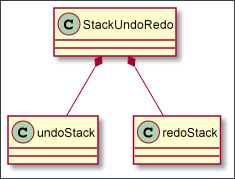
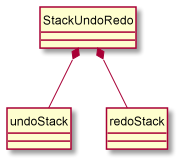
Remove C in diagram

Changed region(s): [[0.0, 0.0, 1.0, 1.0]]

diff --git a/docs/team/junlee1991.md b/docs/team/junlee1991.md
@@ -1,22 +1,21 @@
 ---
 layout: page
-title: Julio Harjo's Project Portfolio Page
+title: Julio's Project Portfolio Page
 ---
 
-# Skeleton of the Project Portfolio Page for Julio Harjo
+### Project: ModuleMateFinder
 
-### Project: AddressBook Level 3
-
-AddressBook - Level 3 is a desktop address book application used for teaching Software Engineering principles. The user interacts with it using a CLI, and it has a GUI created with JavaFX. It is written in Java, and has about 10 kLoC.
+ModuleMateFinder is a desktop address-book-like application used to keep track of your friends' contacts, as well as 
+the modules they are taking. The user interacts with it using a CLI, and it has a GUI created with JavaFX. It is 
+written in Java.
 
 Given below are my contributions to the project.
 
-* **New Feature**: Added the ability to undo/redo previous commands.
-  * What it does: allows the user to undo all previous commands one at a time. Preceding undo commands can be reversed by using the redo command.
-  * Justification: This feature improves the product significantly because a user can make mistakes in commands and the app should provide a convenient way to rectify them.
-  * Highlights: This enhancement affects existing commands and commands to be added in future. It required an in-depth analysis of design alternatives. The implementation too was challenging as it required changes to existing commands.
-  * Credits: *{mention here if you reused any code/ideas from elsewhere or if a third-party library is heavily used in the feature so that a reader can make a more accurate judgement of how much effort went into the feature}*
-
+* **New Feature**: Added the ability to add comments to a person.
+  * What it does: Allows the user to add a comment to a specified `Person` in ModuleMateFinder.
+  * Justification: Allows user to give a reason why they blacklisted or favourite somebody.
+  * Highlights: This feature required an understanding of how to add a new command and field to the project.
+  * Credits: This feature was adapted from the Remark tutorial.
 * **New Feature**: Added a history command that allows the user to navigate to previous commands using up/down keys.
 
 * **Code contributed**: [RepoSense link]()
